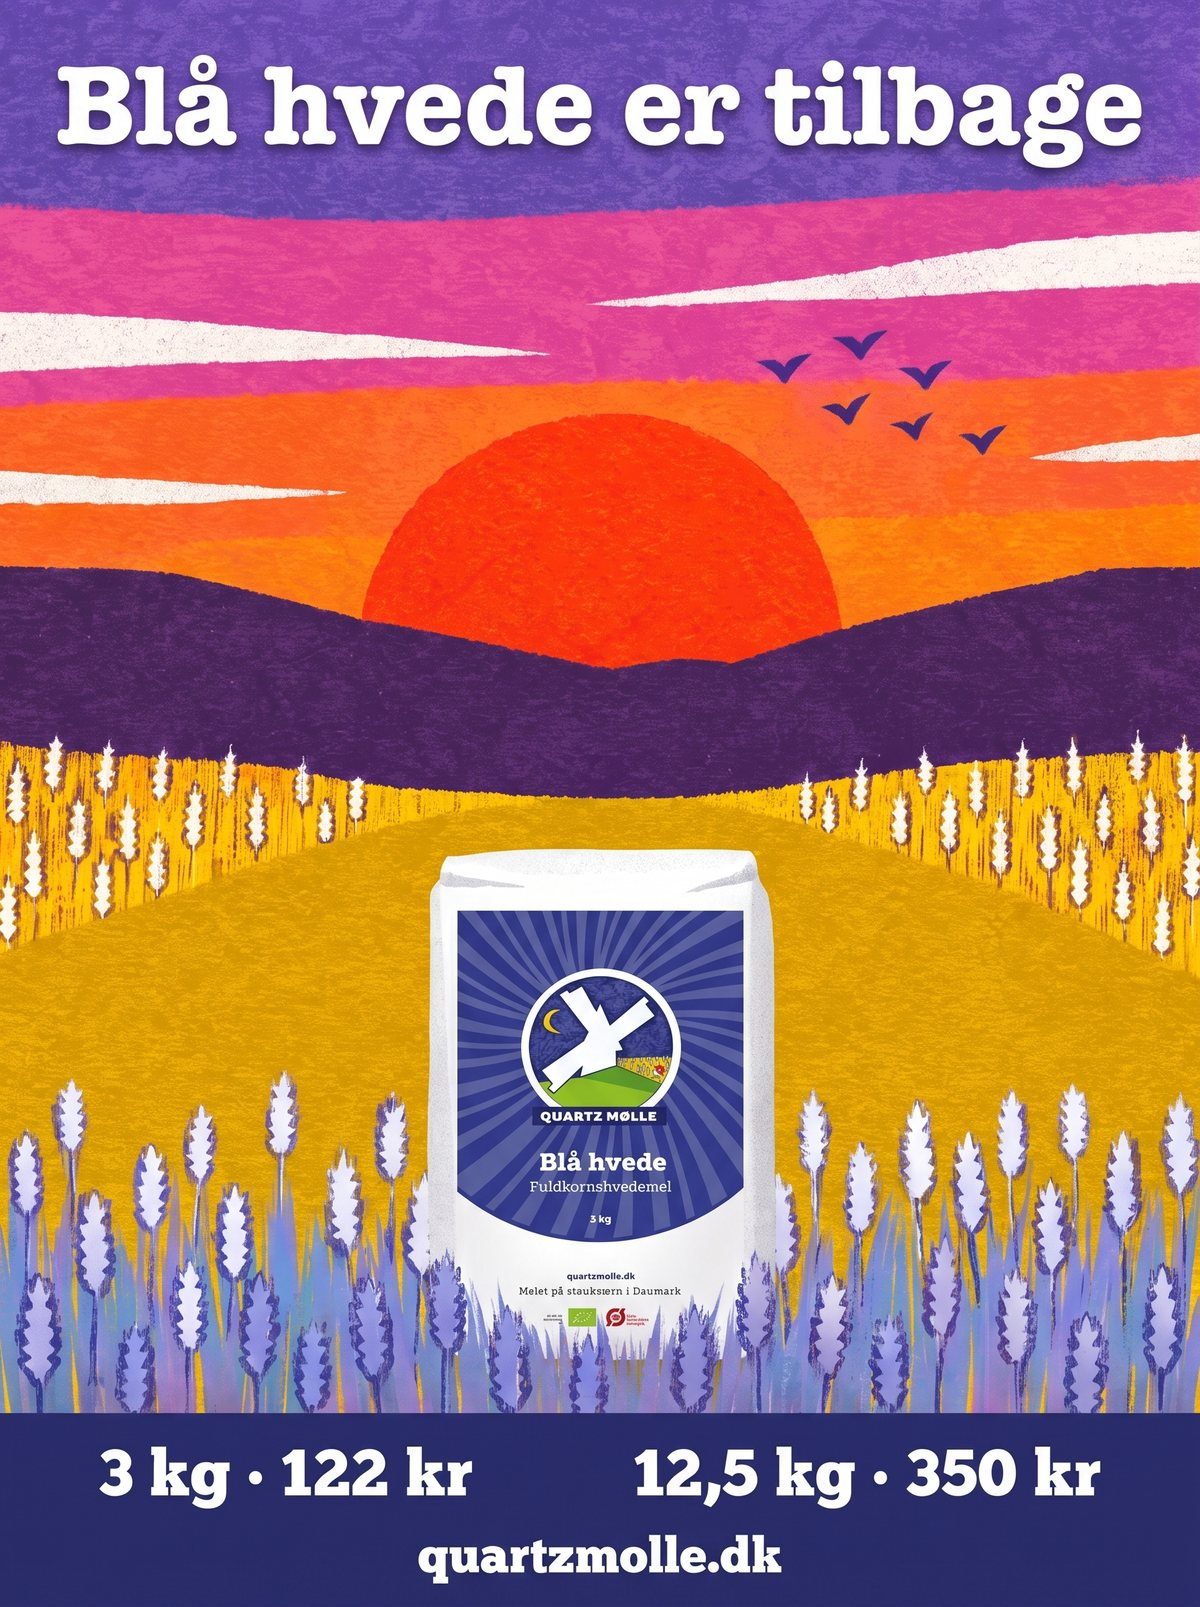
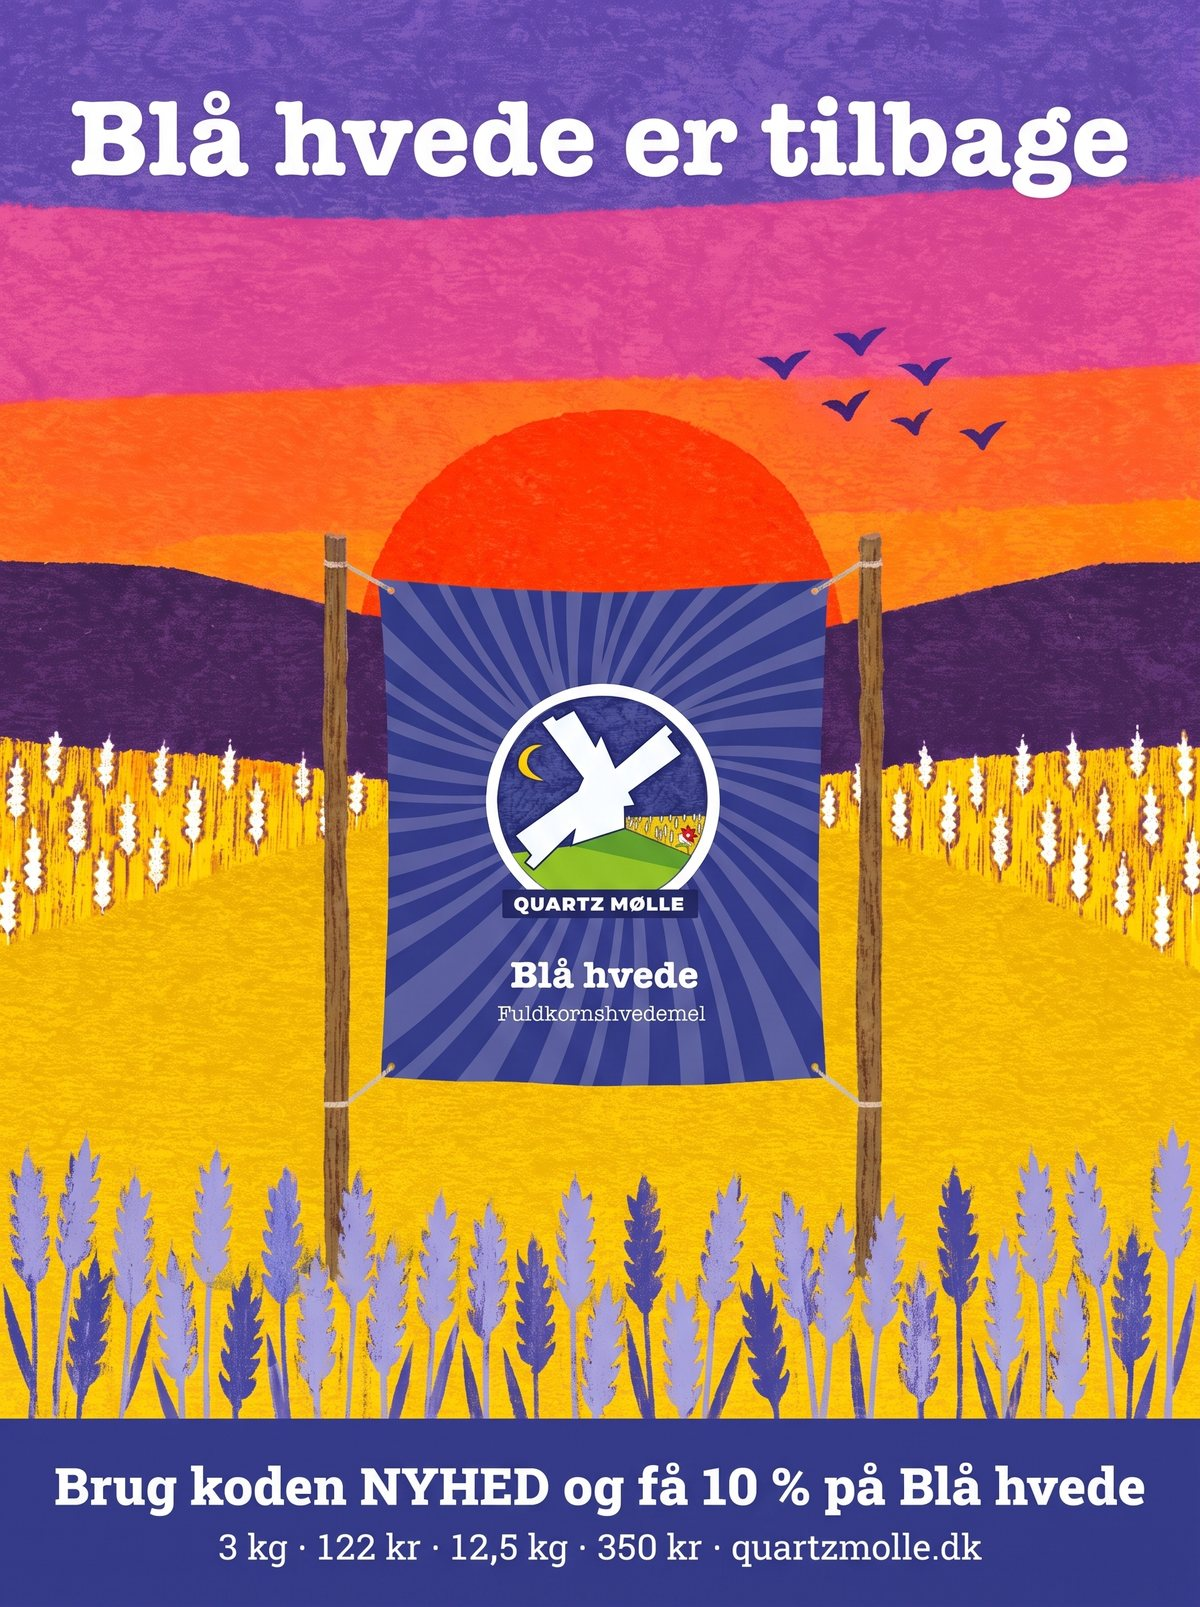
Rabatkoden NYHED (10 % kun på Blå hvede) + nyhedsbrev uden pose
Blå hvede-linjerne bruger nu faste Stripe-produkter, så kuponen NYHED10
kan bindes til dem alene; produkter, kupon og rabatkode oprettes
idempotent ved første checkout. Nyhedsbrevets grafik viser etiketten som
skilt i landskabet i stedet for en melpose.

Claude-Session: https://claude.ai/code/session_0135uKpqNuLcqQpAC8wtHGQK

diff --git a/api/_kampagne.js b/api/_kampagne.js
@@ -1,0 +1,100 @@
+// api/_kampagne.js — kampagnerabat, der kun gælder én vare.
+//
+// Stripe kan kun begrænse en kupon til bestemte PRODUKTER. Vores varelinjer
+// oprettes normalt ad hoc (price_data.product_data) og får derfor et nyt,
+// anonymt produkt pr. betaling, som en kupon ikke kan pege på. Derfor får
+// kampagnevaren faste Stripe-produkter (ét pr. vægt, med samme navn,
+// beskrivelse og etiketbillede som de ad hoc-linjer har i dag, så webhook,
+// Shipmondo og ordreoversigten ser præcis det samme), og kuponen bindes til
+// dem. Alt oprettes automatisk og idempotent første gang checkout kaldes —
+// intet skal sættes op i Stripe-dashboardet.
+//
+// Rabatkoden kan ikke misbruges på andre varer: har kurven ikke kampagnevaren,
+// afviser Stripe selv koden ("gælder ikke for varerne i kurven").
+
+import { CATALOG, labelImage } from './_catalog.js';
+
+export const KAMPAGNE = {
+  productId: 'bla-hvede-fuldkorn',   // varen i CATALOG
+  code: 'NYHED',                     // det kunden taster
+  couponId: 'NYHED10',               // fast Stripe-kupon-id (idempotent)
+  percent: 10,
+};
+
+// Fast, læsbart Stripe-produkt-id pr. vare+vægt: "qm-bla-hvede-fuldkorn-12-5-kg".
+export function stripeProductId(id, label) {
+  return ('qm-' + id + '-' + label).toLowerCase()
+    .replace(/[^a-z0-9]+/g, '-').replace(/^-+|-+$/g, '');
+}
+
+// Samme visningsfelter som de ad hoc-linjer i checkout.js bygger.
+export function productFields(id, label, origin) {
+  const cat = CATALOG[id] || {};
+  const typeStr = cat.type ? ` – ${cat.type}` : '';
+  const fields = {
+    name: `${cat.name || id}${typeStr}`,
+    description: `${label} · Malet på stenkværn i Danmark · Certificeret Økologisk`,
+  };
+  const img = labelImage(id, label);
+  if (img) {
+    const path = img.replace(/^\//, '').split('/').map(encodeURIComponent).join('/');
+    fields.images = [`${origin}/${path}`];
+  }
+  return fields;
+}
+
+const isMissing = (e) => e && (e.code === 'resource_missing' || e.statusCode === 404);
+const alreadyExists = (e) => e && (e.code === 'resource_already_exists' || /already exists/i.test(e.message || ''));
+
+// Sørger for at produkter, kupon og rabatkode findes. Returnerer et map
+// { 'id|vægt': stripeProductId } for kampagnevaren, eller null hvis Stripe
+// fejlede — så falder checkout tilbage til ad hoc-linjer og virker stadig.
+let cached = null;
+export async function ensureKampagne(stripe, origin, k = KAMPAGNE) {
+  if (cached) return cached;
+  const cat = CATALOG[k.productId];
+  if (!cat) return null;
+  try {
+    const map = {};
+    for (const label of Object.keys(cat.weights)) {
+      const pid = stripeProductId(k.productId, label);
+      try {
+        await stripe.products.retrieve(pid);
+      } catch (e) {
+        if (!isMissing(e)) throw e;
+        try { await stripe.products.create({ id: pid, ...productFields(k.productId, label, origin) }); }
+        catch (e2) { if (!alreadyExists(e2)) throw e2; }
+      }
+      map[`${k.productId}|${label}`] = pid;
+    }
+
+    try {
+      await stripe.coupons.retrieve(k.couponId);
+    } catch (e) {
+      if (!isMissing(e)) throw e;
+      try {
+        await stripe.coupons.create({
+          id: k.couponId,
+          name: `${k.code} – ${k.percent} % på ${cat.name}`,
+          percent_off: k.percent,
+          duration: 'forever',
+          applies_to: { products: Object.values(map) },
+        });
+      } catch (e2) { if (!alreadyExists(e2)) throw e2; }
+    }
+
+    const found = await stripe.promotionCodes.list({ code: k.code, limit: 1 });
+    if (!found.data || found.data.length === 0) {
+      await stripe.promotionCodes.create({ coupon: k.couponId, code: k.code });
+    }
+
+    cached = map;
+    return map;
+  } catch (e) {
+    console.error('Kampagne-opsætning fejlede (checkout fortsætter uden):', e.message);
+    return null;
+  }
+}
+
+// Kun til test.
+export function _resetKampagneCache() { cached = null; }

diff --git a/api/checkout.js b/api/checkout.js
@@ -6,6 +6,7 @@
 // prices are NEVER trusted — a manipulated price/weight is rejected.
 
 import { CATALOG, buildPriceMap, weightKgFromLabel, labelImage } from './_catalog.js';
+import { ensureKampagne } from './_kampagne.js';
 
 export default async function handler(req, res) {
   if (req.method !== 'POST') {
@@ -65,7 +66,19 @@ export default async function handler(req, res) {
       });
     }
 
+    // Kampagnevaren (NYHED-rabatten) bruger faste Stripe-produkter, så kuponen
+    // kun kan ramme den. Fejler opsætningen, er kampagne null og linjen bygges
+    // som alle andre (ad hoc) — betalingen går altid igennem.
+    const kampagne = await ensureKampagne(stripe, origin);
+
     const line_items = validated.map(it => {
+      const fastProdukt = kampagne && kampagne[`${it.id}|${it.label}`];
+      if (fastProdukt) {
+        return {
+          price_data: { currency: 'dkk', product: fastProdukt, unit_amount: Math.round(it.price * 100) },
+          quantity: it.qty,
+        };
+      }
       // Build name: "Rød hvede – Type 70" so it shows in Stripe AND Shipmondo
       const typeStr = it.productType ? ` – ${it.productType}` : '';
       const product_data = {
@@ -183,7 +196,7 @@ export default async function handler(req, res) {
       phone_number_collection: { enabled: true },
       shipping_options: shippingOptions,
       // Show the "Add promotion code" field in Stripe (used by the newsletter's
-      // VELKOMMEN10 welcome code, and any future campaign codes).
+      // VELKOMMEN10 welcome code and the NYHED campaign code — see _kampagne.js).
       allow_promotion_codes: true,
       locale: 'da',
       metadata: { items_summary: itemsSummary, client_ip: clientIp },
